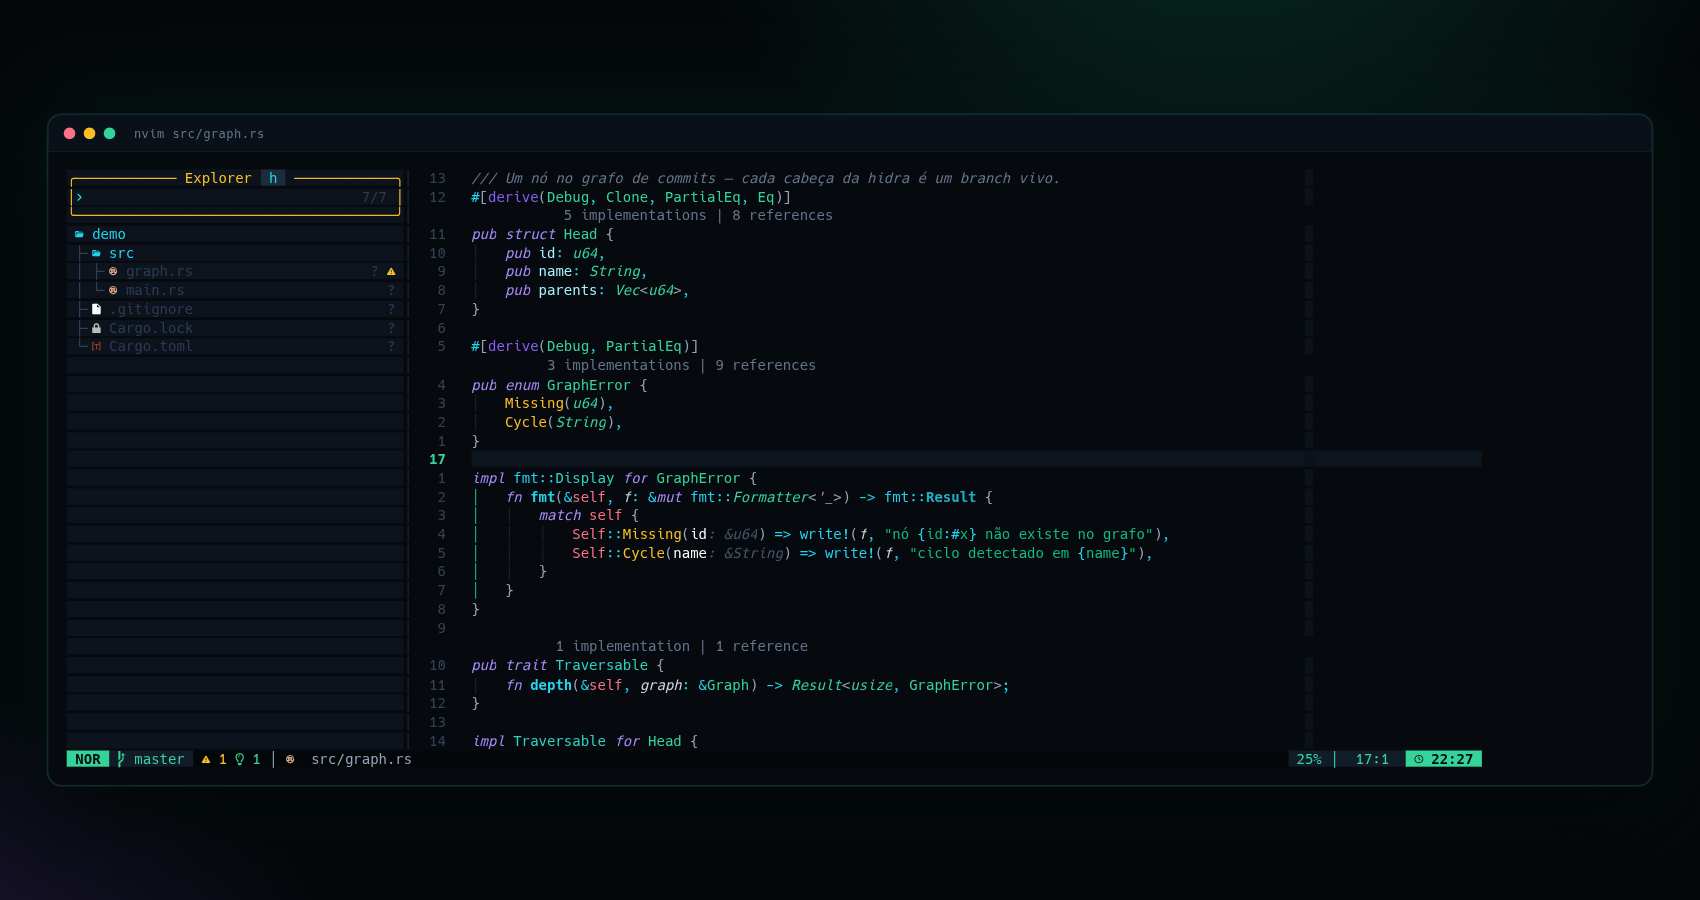
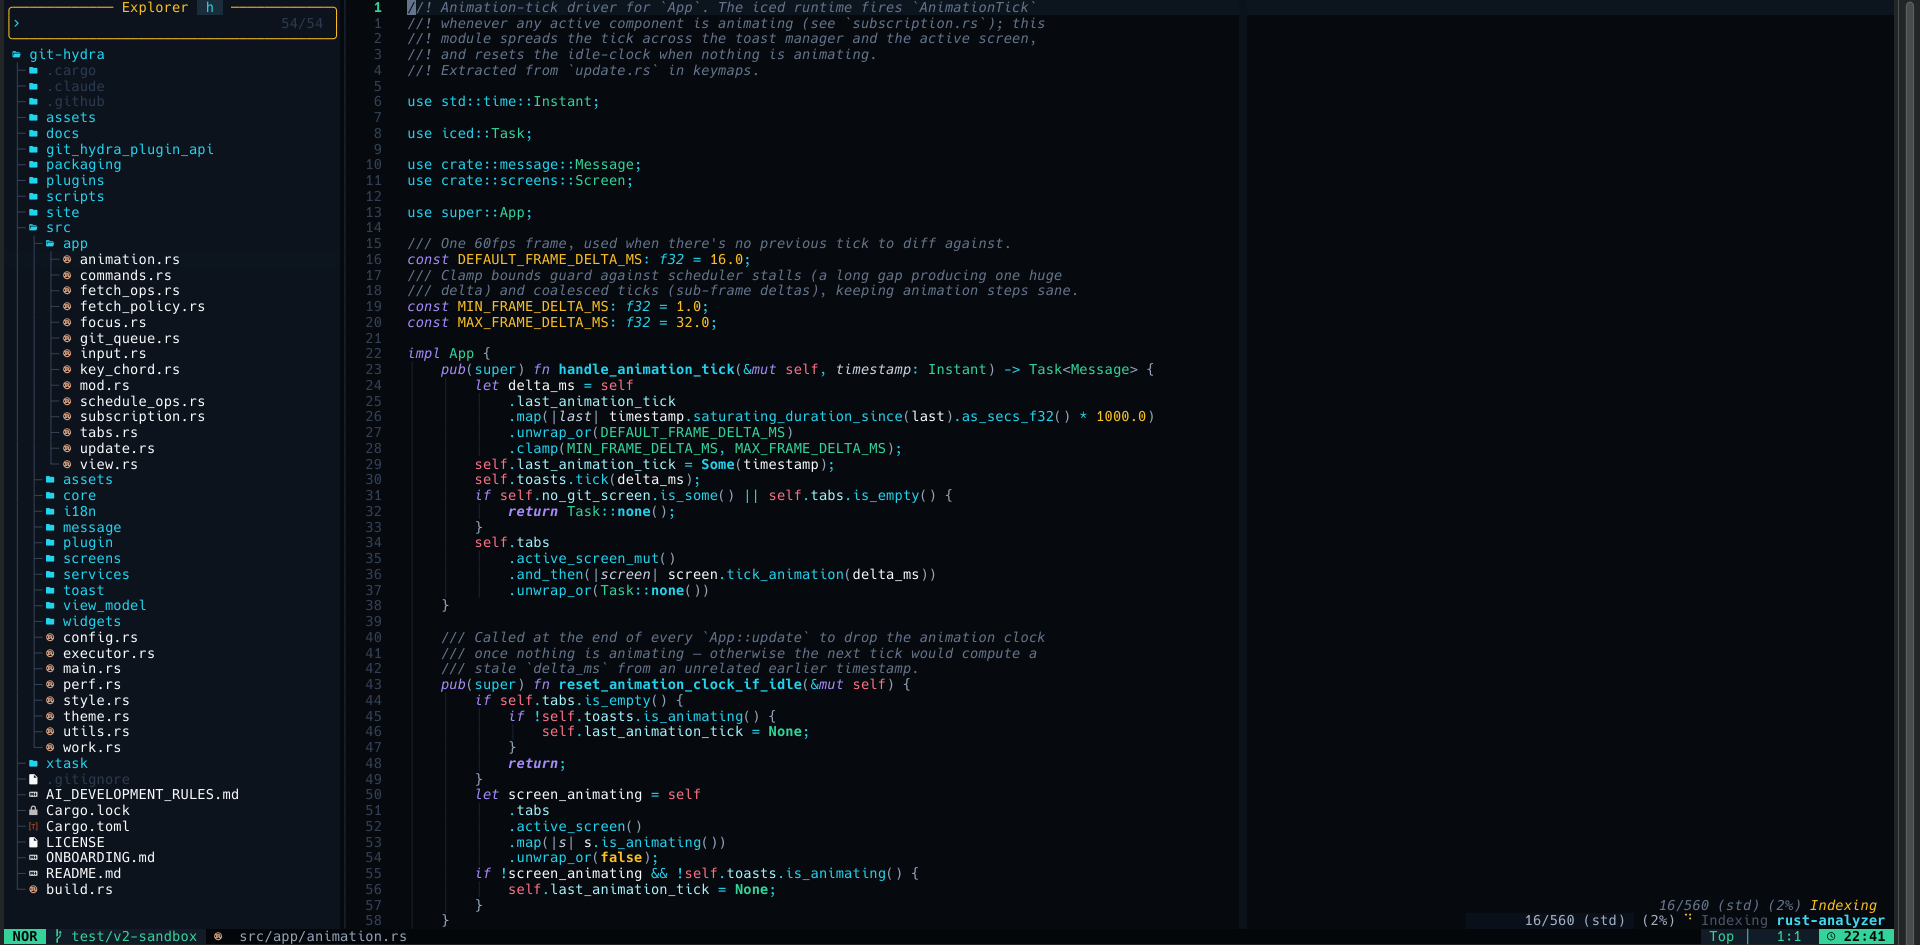
docs: screenshot real da config em uso
Troca a captura sintética por um print do editor rodando no código-fonte
do Git Hydra: árvore do projeto inteiro, um módulo de animação em Rust e
o rust-analyzer indexando na barra inferior.

A figura escapa da coluna de texto acima de 1180px — é a única imagem da
página e mostra o editor inteiro, então ganha o espaço.

diff --git a/docs/manual.html b/docs/manual.html
@@ -257,6 +257,12 @@ tr[hidden]{display:none}
 
 /* ── Screenshot ──────────────────────────────────────── */
 .shot{margin:0 0 30px}
+/* A partir de certa largura a figura escapa da coluna de texto: é a única
+   imagem da página e mostra o editor inteiro, então ganha o espaço extra.
+   O limite em ch acompanha a tipografia e nunca passa da área de conteúdo. */
+@media (min-width:1180px){
+  .shot{width:92ch; margin-left:50%; transform:translateX(-50%)}
+}
 .shot img{
   display:block; width:100%; height:auto; border-radius:12px;
   border:1px solid var(--line);
@@ -385,9 +391,9 @@ footer{border-top:1px solid var(--line); margin-top:60px; padding-top:22px; colo
   <p class="lede">Nenhum "distro" pronta (LazyVim, NvChad). Essa config é sua, cada linha é legível e você pode mudar qualquer coisa sem lutar contra abstrações de terceiros.</p>
 
   <figure class="shot">
-    <img src="assets/screenshot.png" width="1700" height="900"
-         alt="Neovim com a árvore de arquivos à esquerda e um arquivo Rust aberto, com realce de sintaxe na paleta do Git Hydra: palavras-chave em violeta, tipos em esmeralda, funções em ciano.">
-    <figcaption>árvore lateral · code lens do rust-analyzer · inlay hints · statusline por modo</figcaption>
+    <img src="assets/screenshot.png" width="1920" height="945"
+         alt="Neovim aberto no código-fonte do Git Hydra: árvore de arquivos à esquerda, um módulo Rust de animação no centro com realce de sintaxe na paleta da marca — palavras-chave em violeta, tipos em esmeralda, funções em ciano — e o rust-analyzer indexando o projeto na barra inferior.">
+    <figcaption>a config rodando de verdade, no código-fonte do Git Hydra</figcaption>
   </figure>
 
   <h3>Estrutura dos arquivos</h3>

diff --git a/docs/index.html b/docs/index.html
@@ -272,6 +272,12 @@ tr[hidden]{display:none}
 
 /* ── Screenshot ──────────────────────────────────────── */
 .shot{margin:0 0 30px}
+/* A partir de certa largura a figura escapa da coluna de texto: é a única
+   imagem da página e mostra o editor inteiro, então ganha o espaço extra.
+   O limite em ch acompanha a tipografia e nunca passa da área de conteúdo. */
+@media (min-width:1180px){
+  .shot{width:92ch; margin-left:50%; transform:translateX(-50%)}
+}
 .shot img{
   display:block; width:100%; height:auto; border-radius:12px;
   border:1px solid var(--line);
@@ -470,9 +476,9 @@ cd nvim-rust &amp;&amp; ./install.sh</code></pre>
   <p class="lede">Nenhum "distro" pronta (LazyVim, NvChad). Essa config é sua, cada linha é legível e você pode mudar qualquer coisa sem lutar contra abstrações de terceiros.</p>
 
   <figure class="shot">
-    <img src="assets/screenshot.png" width="1700" height="900"
-         alt="Neovim com a árvore de arquivos à esquerda e um arquivo Rust aberto, com realce de sintaxe na paleta do Git Hydra: palavras-chave em violeta, tipos em esmeralda, funções em ciano.">
-    <figcaption>árvore lateral · code lens do rust-analyzer · inlay hints · statusline por modo</figcaption>
+    <img src="assets/screenshot.png" width="1920" height="945"
+         alt="Neovim aberto no código-fonte do Git Hydra: árvore de arquivos à esquerda, um módulo Rust de animação no centro com realce de sintaxe na paleta da marca — palavras-chave em violeta, tipos em esmeralda, funções em ciano — e o rust-analyzer indexando o projeto na barra inferior.">
+    <figcaption>a config rodando de verdade, no código-fonte do Git Hydra</figcaption>
   </figure>
 
   <h3>Estrutura dos arquivos</h3>

diff --git a/README.md b/README.md
@@ -10,7 +10,7 @@ startup: 38 ms  ·  38 plugins  ·  Neovim 0.11+
 
 **[→ Leia o manual completo](https://marcelofullstack.github.io/nvim-rust/)** — da gramática do Vim às receitas do dia a dia, com cheatsheet buscável.
 
-![Neovim com a árvore de arquivos à esquerda e um arquivo Rust aberto, com realce de sintaxe na paleta do Git Hydra](docs/assets/screenshot.png)
+![Neovim aberto no código-fonte do Git Hydra, com a árvore de arquivos à esquerda e realce de sintaxe na paleta da marca](docs/assets/screenshot.png)
 
 ## Instalação
 
